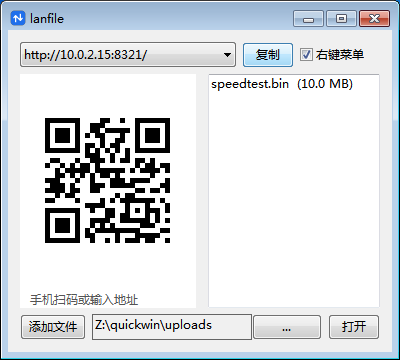
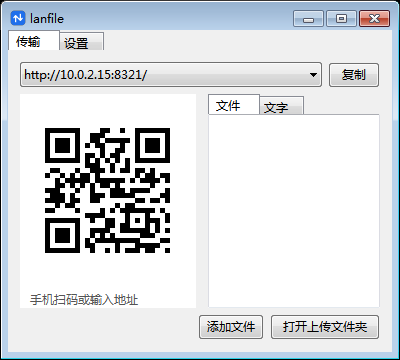
feat(lanfile): move the upload dir into settings and add folder shortcuts
- The file tab now shows [添加文件] [打开上传文件夹] right-aligned, and
  the upload dir picker moved to the settings tab.
- Config/log rows open the containing folder and select the file; when
  the file is missing, just open the folder.

diff --git a/demos/lanfile/src/main.tsx b/demos/lanfile/src/main.tsx
@@ -99,7 +99,8 @@ const CTRL_H = 26
 const QR_W = 176      // 左侧 QR 面板宽
 const COPY_W = 52     // 复制 / 已复制
 const ADD_W = 66      // 添加文件
-const OPEN_W = 52     // 打开
+const OPEN_DIR_W = 110  // 打开上传文件夹
+const OPEN_FOLDER_W = 80 // 打开文件夹
 const TIP_H = 20
 const TIP_X = 10
 const TIP_DY = 3
@@ -426,10 +427,15 @@ function addFiles(): void {
 function openUploadDir(): void {
     ShellExecute(hwndMain ?? NULL, 'open', uploadAbs, NULL, NULL, 1)
 }
-// 用系统默认程序打开文件（配置 / 日志 / 在线说明走同一套）
-function openPath(p: string | null): void {
+// 打开所在文件夹并选中文件；文件不存在时 /select 会退到用户目录，改为直接打开父目录
+function openInFolder(p: string | null): void {
     if (!p) return
-    ShellExecute(hwndMain ?? NULL, 'open', p, NULL, NULL, 1)
+    const [, err] = os.stat(p)
+    if (err !== 0) {
+        ShellExecute(hwndMain ?? NULL, 'open', p.replace(/[\\/][^\\/]+$/, ''), NULL, NULL, 1)
+        return
+    }
+    ShellExecute(hwndMain ?? NULL, 'open', 'explorer.exe', '/select,"' + p + '"', NULL, 1)
 }
 // 清除配置与诊断日志：只删文件，内存状态保持到重启（提示里写明）
 function clearFiles(): void {
@@ -694,11 +700,9 @@ function App({ addrs, initIdx, port, uploadDir }: {
         {tab === 0 ? (
           <w key="files" type="STATIC"
              ws={WindowStyle.VISIBLE | WindowStyle.CLIPCHILDREN}
-             style={{ flexDirection: 'row', gap: GAP, height: CTRL_H }}>
+             style={{ flexDirection: 'row', justifyContent: 'flex-end', gap: GAP, height: CTRL_H }}>
             <Button onClick={addFiles} style={{ width: ADD_W, height: CTRL_H }}>添加文件</Button>
-            <PathPicker key={upDir} type="folder" value={upDir} onChange={onUpDir}
-                        title='选择上传保存目录' style={{ flexGrow: 1, height: CTRL_H }} />
-            <Button onClick={openUploadDir} style={{ width: OPEN_W, height: CTRL_H }}>打开</Button>
+            <Button onClick={openUploadDir} style={{ width: OPEN_DIR_W, height: CTRL_H }}>打开上传文件夹</Button>
           </w>
         ) : (
           <w key="text" type="STATIC"
@@ -716,6 +720,9 @@ function App({ addrs, initIdx, port, uploadDir }: {
       <w type="STATIC"
          ws={WindowStyle.VISIBLE | WindowStyle.CLIPCHILDREN}
          style={{ flexDirection: 'column', padding: PAD, gap: GAP, flexGrow: 1 }}>
+        <w type="STATIC" text='上传保存目录' style={{ height: 18 }} />
+        <PathPicker key={upDir} type="folder" value={upDir} onChange={onUpDir}
+                    title='选择上传保存目录' style={{ height: CTRL_H }} />
         <CheckBox label='在资源管理器右键菜单中显示' checked={ctx}
                   onChange={(v) => { if (toggleCtx(v)) setCtx(v) }}
                   style={{ height: CTRL_H }} />
@@ -724,14 +731,14 @@ function App({ addrs, initIdx, port, uploadDir }: {
            style={{ flexDirection: 'row', alignItems: 'center', gap: GAP, height: CTRL_H }}>
           <w type="STATIC" text='配置文件：%TEMP%\lanfile.json'
              style={{ flexGrow: 1, height: CTRL_H }} />
-          <Button onClick={() => openPath(cfgPath())} style={{ width: OPEN_W, height: CTRL_H }}>打开</Button>
+          <Button onClick={() => openInFolder(cfgPath())} style={{ width: OPEN_FOLDER_W, height: CTRL_H }}>打开文件夹</Button>
         </w>
         <w type="STATIC"
            ws={WindowStyle.VISIBLE | WindowStyle.CLIPCHILDREN}
            style={{ flexDirection: 'row', alignItems: 'center', gap: GAP, height: CTRL_H }}>
           <w type="STATIC" text='诊断日志：%TEMP%\lanfile.log'
              style={{ flexGrow: 1, height: CTRL_H }} />
-          <Button onClick={() => openPath(logPath())} style={{ width: OPEN_W, height: CTRL_H }}>打开</Button>
+          <Button onClick={() => openInFolder(logPath())} style={{ width: OPEN_FOLDER_W, height: CTRL_H }}>打开文件夹</Button>
         </w>
         <Link href='https://quickwinlabs.github.io/quickwin-demos/lanfile/'
               onClick={(url) => ShellExecute(hwndMain ?? NULL, 'open', url, NULL, NULL, 1)}
